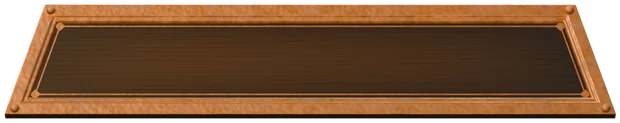
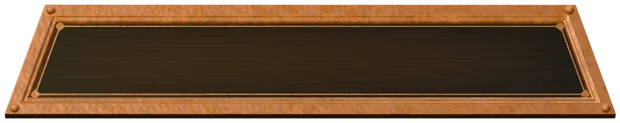
manticore: the plaque's darker centre, the day plaque art re-made to the frame's feet (#302516, 1.0.04)
tools/build_plaque_centre.py re-makes board-plaque-{landscape,portrait,phone}.webp from the spec's untouched originals
(images/spin_amount_final): the dark field (its own dark pixels inside the bevel; the gold line and the lozenges keep
their light) times target / mean per channel, the grain kept, the spec's encoder. Not a tint, not a filter (Corey
2026-10-20 approved the storyboard with centre A). On screen at 1920 x 1080 the field is #241b0f, the feet #23190e. The
night and fire layers are unchanged (the night centre already matches the feet).

diff --git a/apps/manticore_mayhem/src/game/assetStamp.ts b/apps/manticore_mayhem/src/game/assetStamp.ts
@@ -421,13 +421,13 @@ export default {
 	"ui/board-plaque-fire-landscape.webp": "c2c27b62",
 	"ui/board-plaque-fire-phone.webp": "fb53a73d",
 	"ui/board-plaque-fire-portrait.webp": "1a632577",
-	"ui/board-plaque-landscape.webp": "fe7ed165",
+	"ui/board-plaque-landscape.webp": "9e170433",
 	"ui/board-plaque-night-landscape.webp": "daa94242",
 	"ui/board-plaque-night-phone-half.webp": "eebdf841",
 	"ui/board-plaque-night-phone.webp": "ca0eaba1",
 	"ui/board-plaque-night-portrait.webp": "d7912492",
-	"ui/board-plaque-phone.webp": "56988fb5",
-	"ui/board-plaque-portrait.webp": "2a656dd3",
+	"ui/board-plaque-phone.webp": "d7650582",
+	"ui/board-plaque-portrait.webp": "837f850c",
 	"ui/board-plaque-shadow-landscape.webp": "0a5bdfb9",
 	"ui/board-plaque-shadow-phone.webp": "cc5148b4",
 	"ui/board-plaque-shadow-portrait.webp": "0b9fa51d",
@@ -917,13 +917,13 @@ export const fileBytes = {
 	"ui/board-plaque-fire-landscape.webp": 1266,
 	"ui/board-plaque-fire-phone.webp": 950,
 	"ui/board-plaque-fire-portrait.webp": 1440,
-	"ui/board-plaque-landscape.webp": 8346,
+	"ui/board-plaque-landscape.webp": 8056,
 	"ui/board-plaque-night-landscape.webp": 5526,
 	"ui/board-plaque-night-phone-half.webp": 2236,
 	"ui/board-plaque-night-phone.webp": 4886,
 	"ui/board-plaque-night-portrait.webp": 5746,
-	"ui/board-plaque-phone.webp": 6250,
-	"ui/board-plaque-portrait.webp": 10124,
+	"ui/board-plaque-phone.webp": 5954,
+	"ui/board-plaque-portrait.webp": 9400,
 	"ui/board-plaque-shadow-landscape.webp": 948,
 	"ui/board-plaque-shadow-phone.webp": 690,
 	"ui/board-plaque-shadow-portrait.webp": 838,

diff --git a/apps/manticore_mayhem/tools/build_plaque_centre.py b/apps/manticore_mayhem/tools/build_plaque_centre.py
@@ -1,0 +1,54 @@
+"""THE PLAQUE'S DARKER CENTRE (1.0.04; images/plaque_r5 PLAN.md "The centre colour", option A; Corey 2026-10-20 approved
+the plaque storyboard with centre A). Re-makes the DAY plaque art of every layout with its dark field taken to the board
+frame's feet: #302516, the feet panel's own value in the frame art (on screen #241b0f against the feet's #23190e).
+
+A re-made art layer, not a tint (a tint would darken the copper rim too) and not a filter. The field's weight comes from
+the art itself: its dark pixels (luminance 66 to 86 ramp) inside the bevel, the hull of the connected dark area holding
+the centre, so the fine gold line and the corner lozenges keep their own light. Every field pixel is multiplied per
+channel by target / the field's mean, which keeps the brushed grain. The night and fire layers are not touched (at
+night the centre already matches the feet: #090606 against #0a0807).
+
+Source: the untouched originals in images/spin_amount_final/static/assets/ui (the plaque spec's own files), so the
+script can be run again and always starts from them. Encoder: the spec's (webp quality 85, method 6, alpha quality 100).
+usage: python -I tools/build_plaque_centre.py
+"""
+import os, sys
+import numpy as np
+from PIL import Image
+from scipy import ndimage as ndi
+
+APP = os.path.dirname(os.path.dirname(os.path.abspath(__file__)))
+SRC = os.path.expanduser('~/Desktop/Manticore Mayhem/images/spin_amount_final/static/assets/ui')
+DST = os.path.join(APP, 'static/assets/ui')
+TARGET = (0x30, 0x25, 0x16)
+LAYOUTS = ['landscape', 'portrait', 'phone']
+
+def field_weight(a):
+    L = a[..., :3] @ np.array([0.299, 0.587, 0.114], np.float32)
+    w = np.clip((86 - L) / (86 - 66), 0, 1) * (a[..., 3] > 250)
+    lab, n = ndi.label(w > 0.5)
+    c = lab[a.shape[0] // 2, a.shape[1] // 2]
+    core = ndi.binary_dilation(lab == c, iterations=2)
+    hull = np.zeros_like(core)
+    for r in np.where(core.any(1))[0]:
+        xs = np.where(core[r])[0]
+        hull[r, xs.min():xs.max() + 1] = True
+    return np.clip(w * hull, 0, 1)
+
+def main():
+    for k in LAYOUTS:
+        src = os.path.join(SRC, f'board-plaque-{k}.webp')
+        a = np.asarray(Image.open(src).convert('RGBA')).astype(np.float32)
+        w = field_weight(a)
+        mean = a[w > 0.95][:, :3].mean(0)
+        ratio = 1 + w[..., None] * (np.array(TARGET, np.float32)[None, None, :] / mean[None, None, :] - 1)
+        out = a.copy()
+        out[..., :3] = np.clip(a[..., :3] * ratio, 0, 255)
+        dst = os.path.join(DST, f'board-plaque-{k}.webp')
+        Image.fromarray((out + 0.5).astype(np.uint8), 'RGBA').save(dst, 'WEBP', quality=85, method=6, alpha_quality=100)
+        print(k, 'field px', int((w > 0.95).sum()), 'mean before #%02x%02x%02x' % tuple(int(v) for v in mean), '->', '#%02x%02x%02x' % TARGET, os.path.getsize(dst), 'bytes')
+        if '--masks' in sys.argv:
+            Image.fromarray((w * 255).astype(np.uint8)).save(f'/tmp/plaque_centre_mask_{k}.png')
+
+if __name__ == '__main__':
+    main()
